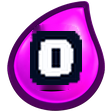
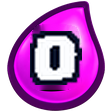
Use approved zero and ten elixir glyphs

Changed region(s): [[0.2679, 0.2679, 0.75, 0.7768], [0.4286, 0.4018, 0.5625, 0.6429]]

diff --git a/windows/tests/test_opponent_card_bar.py b/windows/tests/test_opponent_card_bar.py
@@ -3,6 +3,7 @@ from __future__ import annotations
 import os
 import sys
 import unittest
+from collections import deque
 from pathlib import Path
 
 
@@ -15,6 +16,63 @@ WINDOWS_ROOT = Path(__file__).resolve().parents[1]
 sys.path.insert(0, str(WINDOWS_ROOT / "deploy"))
 
 import opponent_card_bar as card_bar  # noqa: E402
+
+
+def _normalized_white_glyph(
+    surface: pygame.Surface,
+    component_count: int,
+    roi: pygame.Rect | None = None,
+    size: int = 64,
+) -> set[tuple[int, int]]:
+    bounds = roi or surface.get_rect()
+    white_pixels = set()
+    for y in range(bounds.top, bounds.bottom):
+        for x in range(bounds.left, bounds.right):
+            color = surface.get_at((x, y))
+            channels = color[:3]
+            if max(channels) - min(channels) < 78 and min(channels) >= 145 and color.a:
+                white_pixels.add((x, y))
+
+    components: list[set[tuple[int, int]]] = []
+    remaining = set(white_pixels)
+    while remaining:
+        start = remaining.pop()
+        component = {start}
+        pending = deque([start])
+        while pending:
+            x, y = pending.popleft()
+            for neighbor_y in range(y - 1, y + 2):
+                for neighbor_x in range(x - 1, x + 2):
+                    neighbor = (neighbor_x, neighbor_y)
+                    if neighbor in remaining:
+                        remaining.remove(neighbor)
+                        component.add(neighbor)
+                        pending.append(neighbor)
+        components.append(component)
+
+    retained = set().union(
+        *sorted(components, key=len, reverse=True)[:component_count]
+    )
+    left = min(x for x, _ in retained)
+    right = max(x for x, _ in retained)
+    top = min(y for _, y in retained)
+    bottom = max(y for _, y in retained)
+    width = right - left + 1
+    height = bottom - top + 1
+    return {
+        (x, y)
+        for y in range(size)
+        for x in range(size)
+        if (
+            left + min(width - 1, x * width // size),
+            top + min(height - 1, y * height // size),
+        )
+        in retained
+    }
+
+
+def _mask_iou(first: set[tuple[int, int]], second: set[tuple[int, int]]) -> float:
+    return len(first & second) / len(first | second)
 
 
 class OpponentCardBarTests(unittest.TestCase):
@@ -71,6 +129,25 @@ class OpponentCardBarTests(unittest.TestCase):
                 for x in range(approved_size[0]):
                     if not editable_center.collidepoint(x, y):
                         self.assertEqual(badge.get_at((x, y)), approved.get_at((x, y)))
+
+    def test_zero_and_ten_use_approved_reference_glyphs(self) -> None:
+        editable_center = pygame.Rect(18, 20, 78, 74)
+        for value, component_count in ((0, 1), (10, 2)):
+            reference = pygame.image.load(
+                str(card_bar.ASSET_ROOT / "glyph_refs" / f"elixir_{value}.png")
+            )
+            badge = pygame.image.load(str(card_bar.ASSET_ROOT / f"cost_{value}.png"))
+            reference_mask = _normalized_white_glyph(reference, component_count)
+            badge_mask = _normalized_white_glyph(
+                badge,
+                component_count,
+                editable_center,
+            )
+            self.assertGreaterEqual(
+                _mask_iou(reference_mask, badge_mask),
+                0.94,
+                f"cost_{value}.png does not preserve its approved glyph shape",
+            )
 
     def test_average_cost_uses_unique_revealed_cards(self) -> None:
         cards = [
